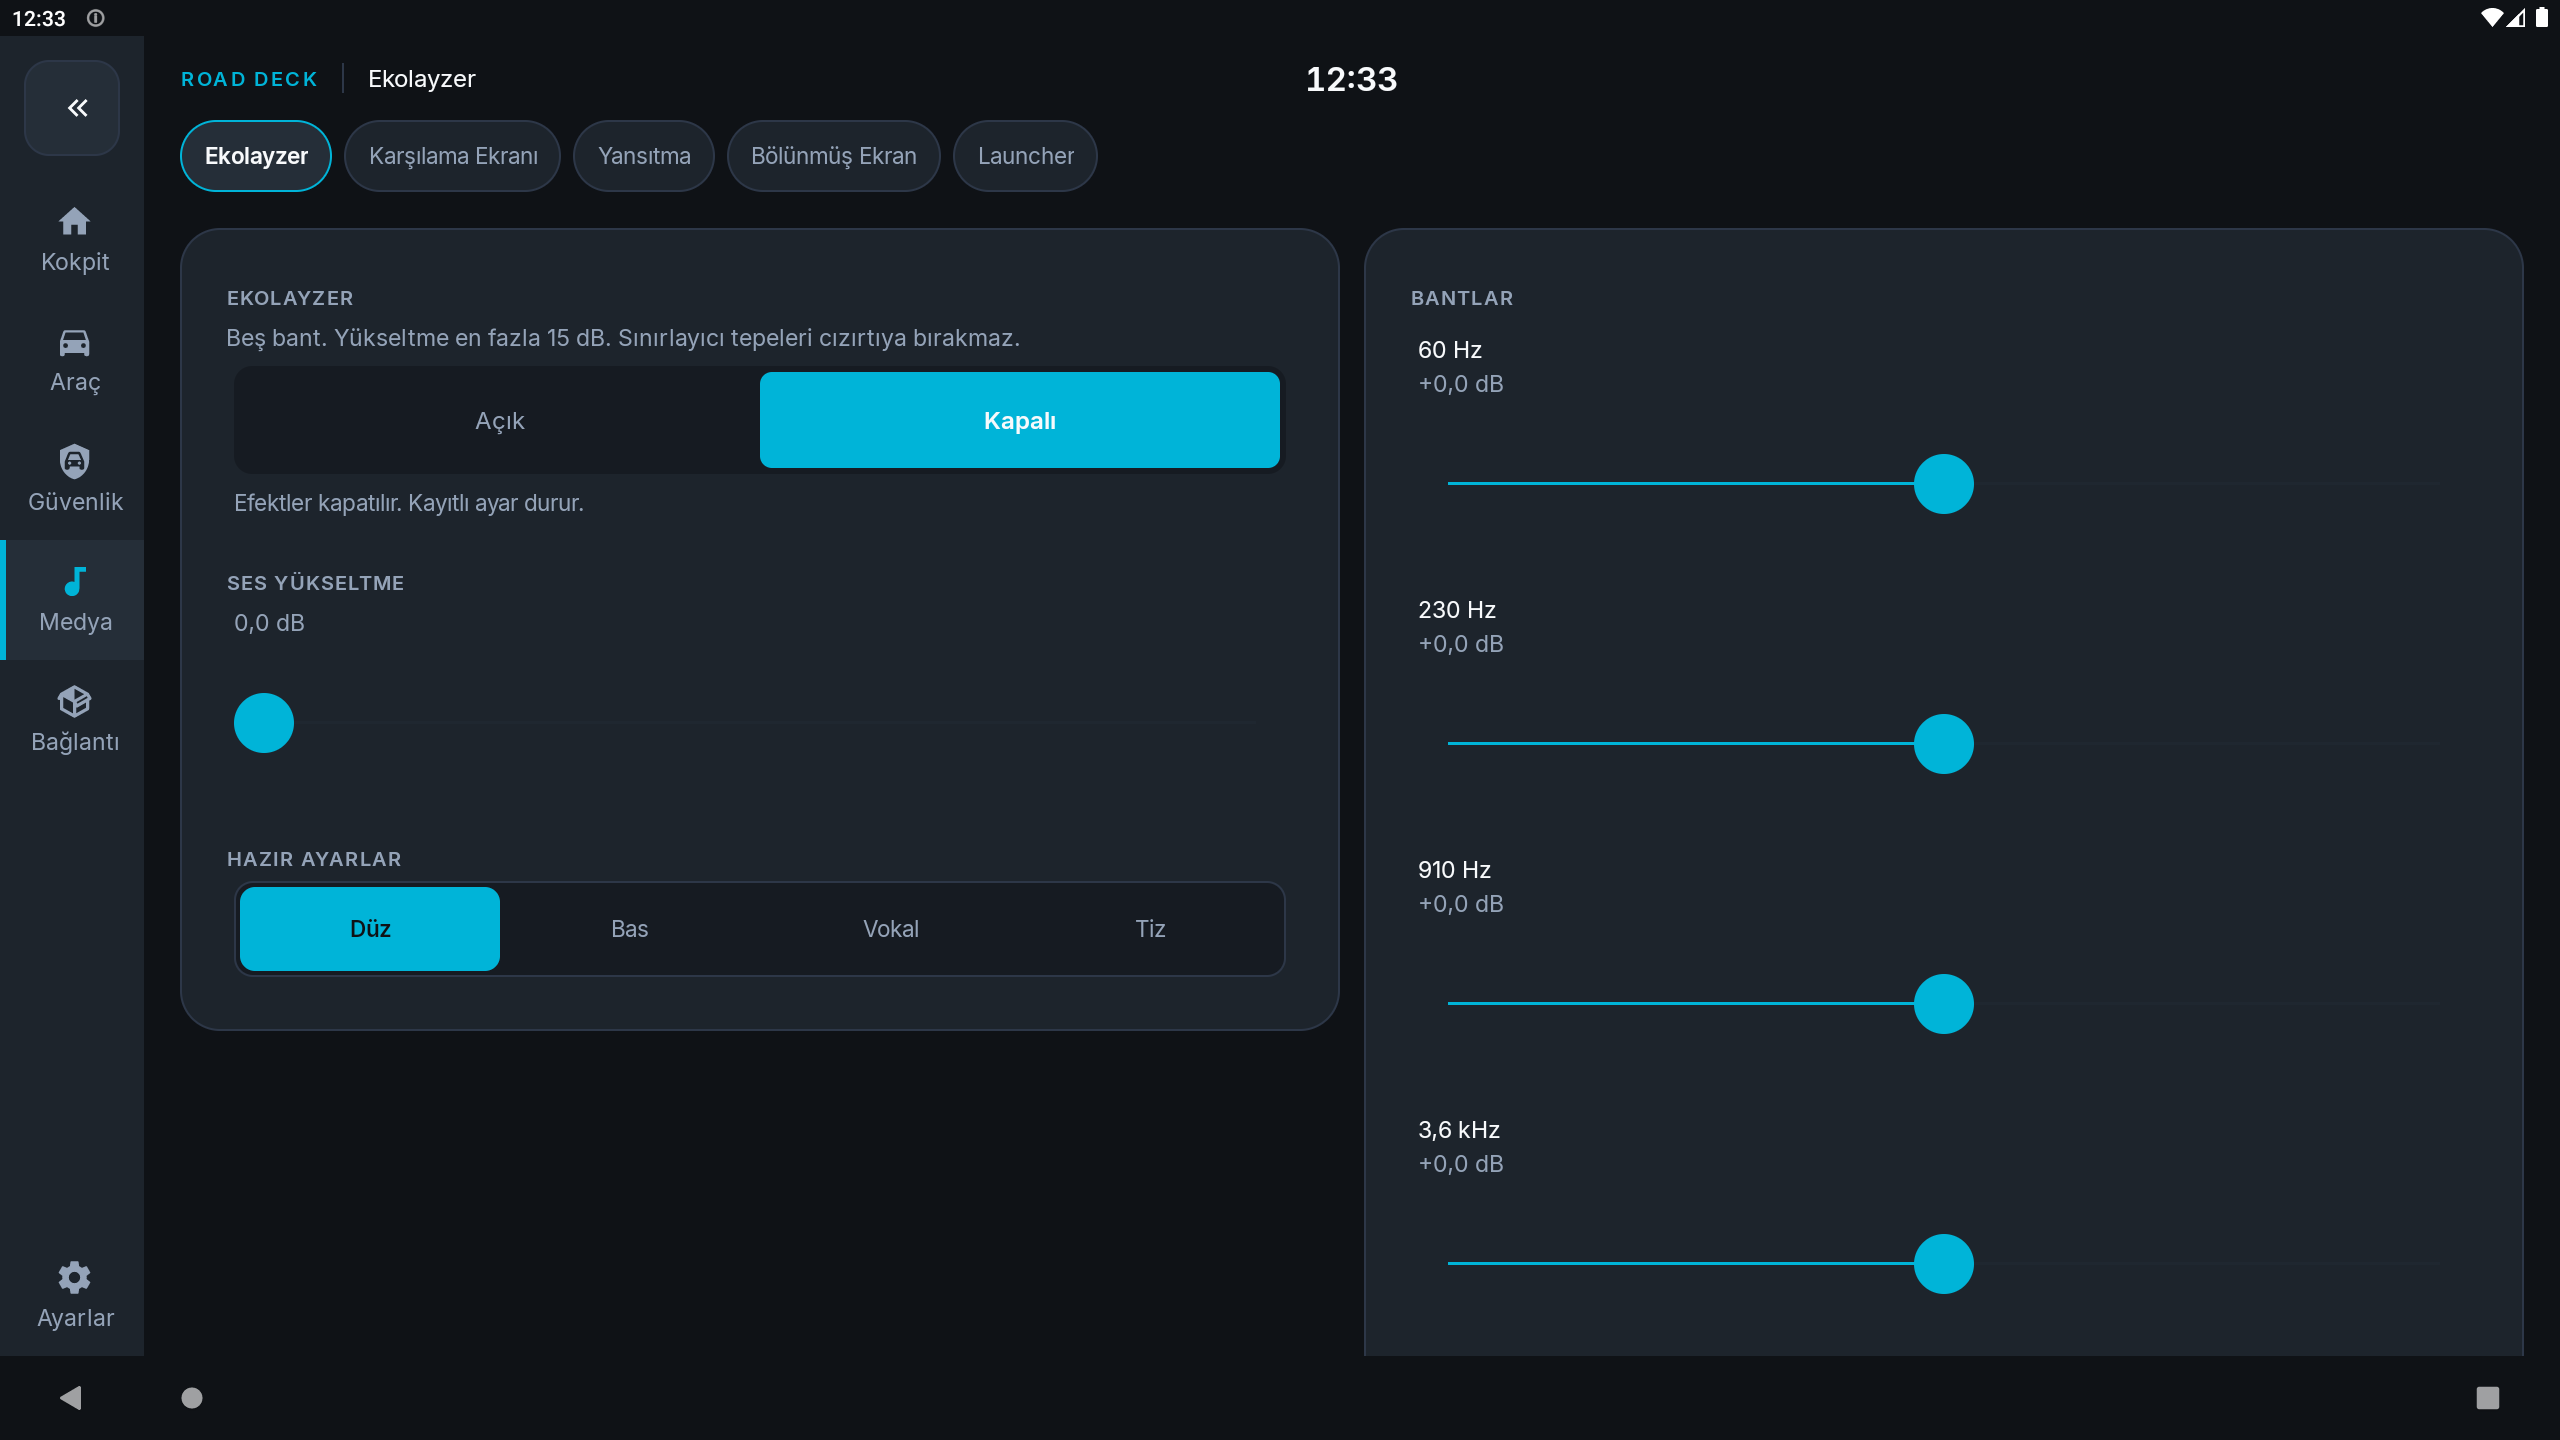
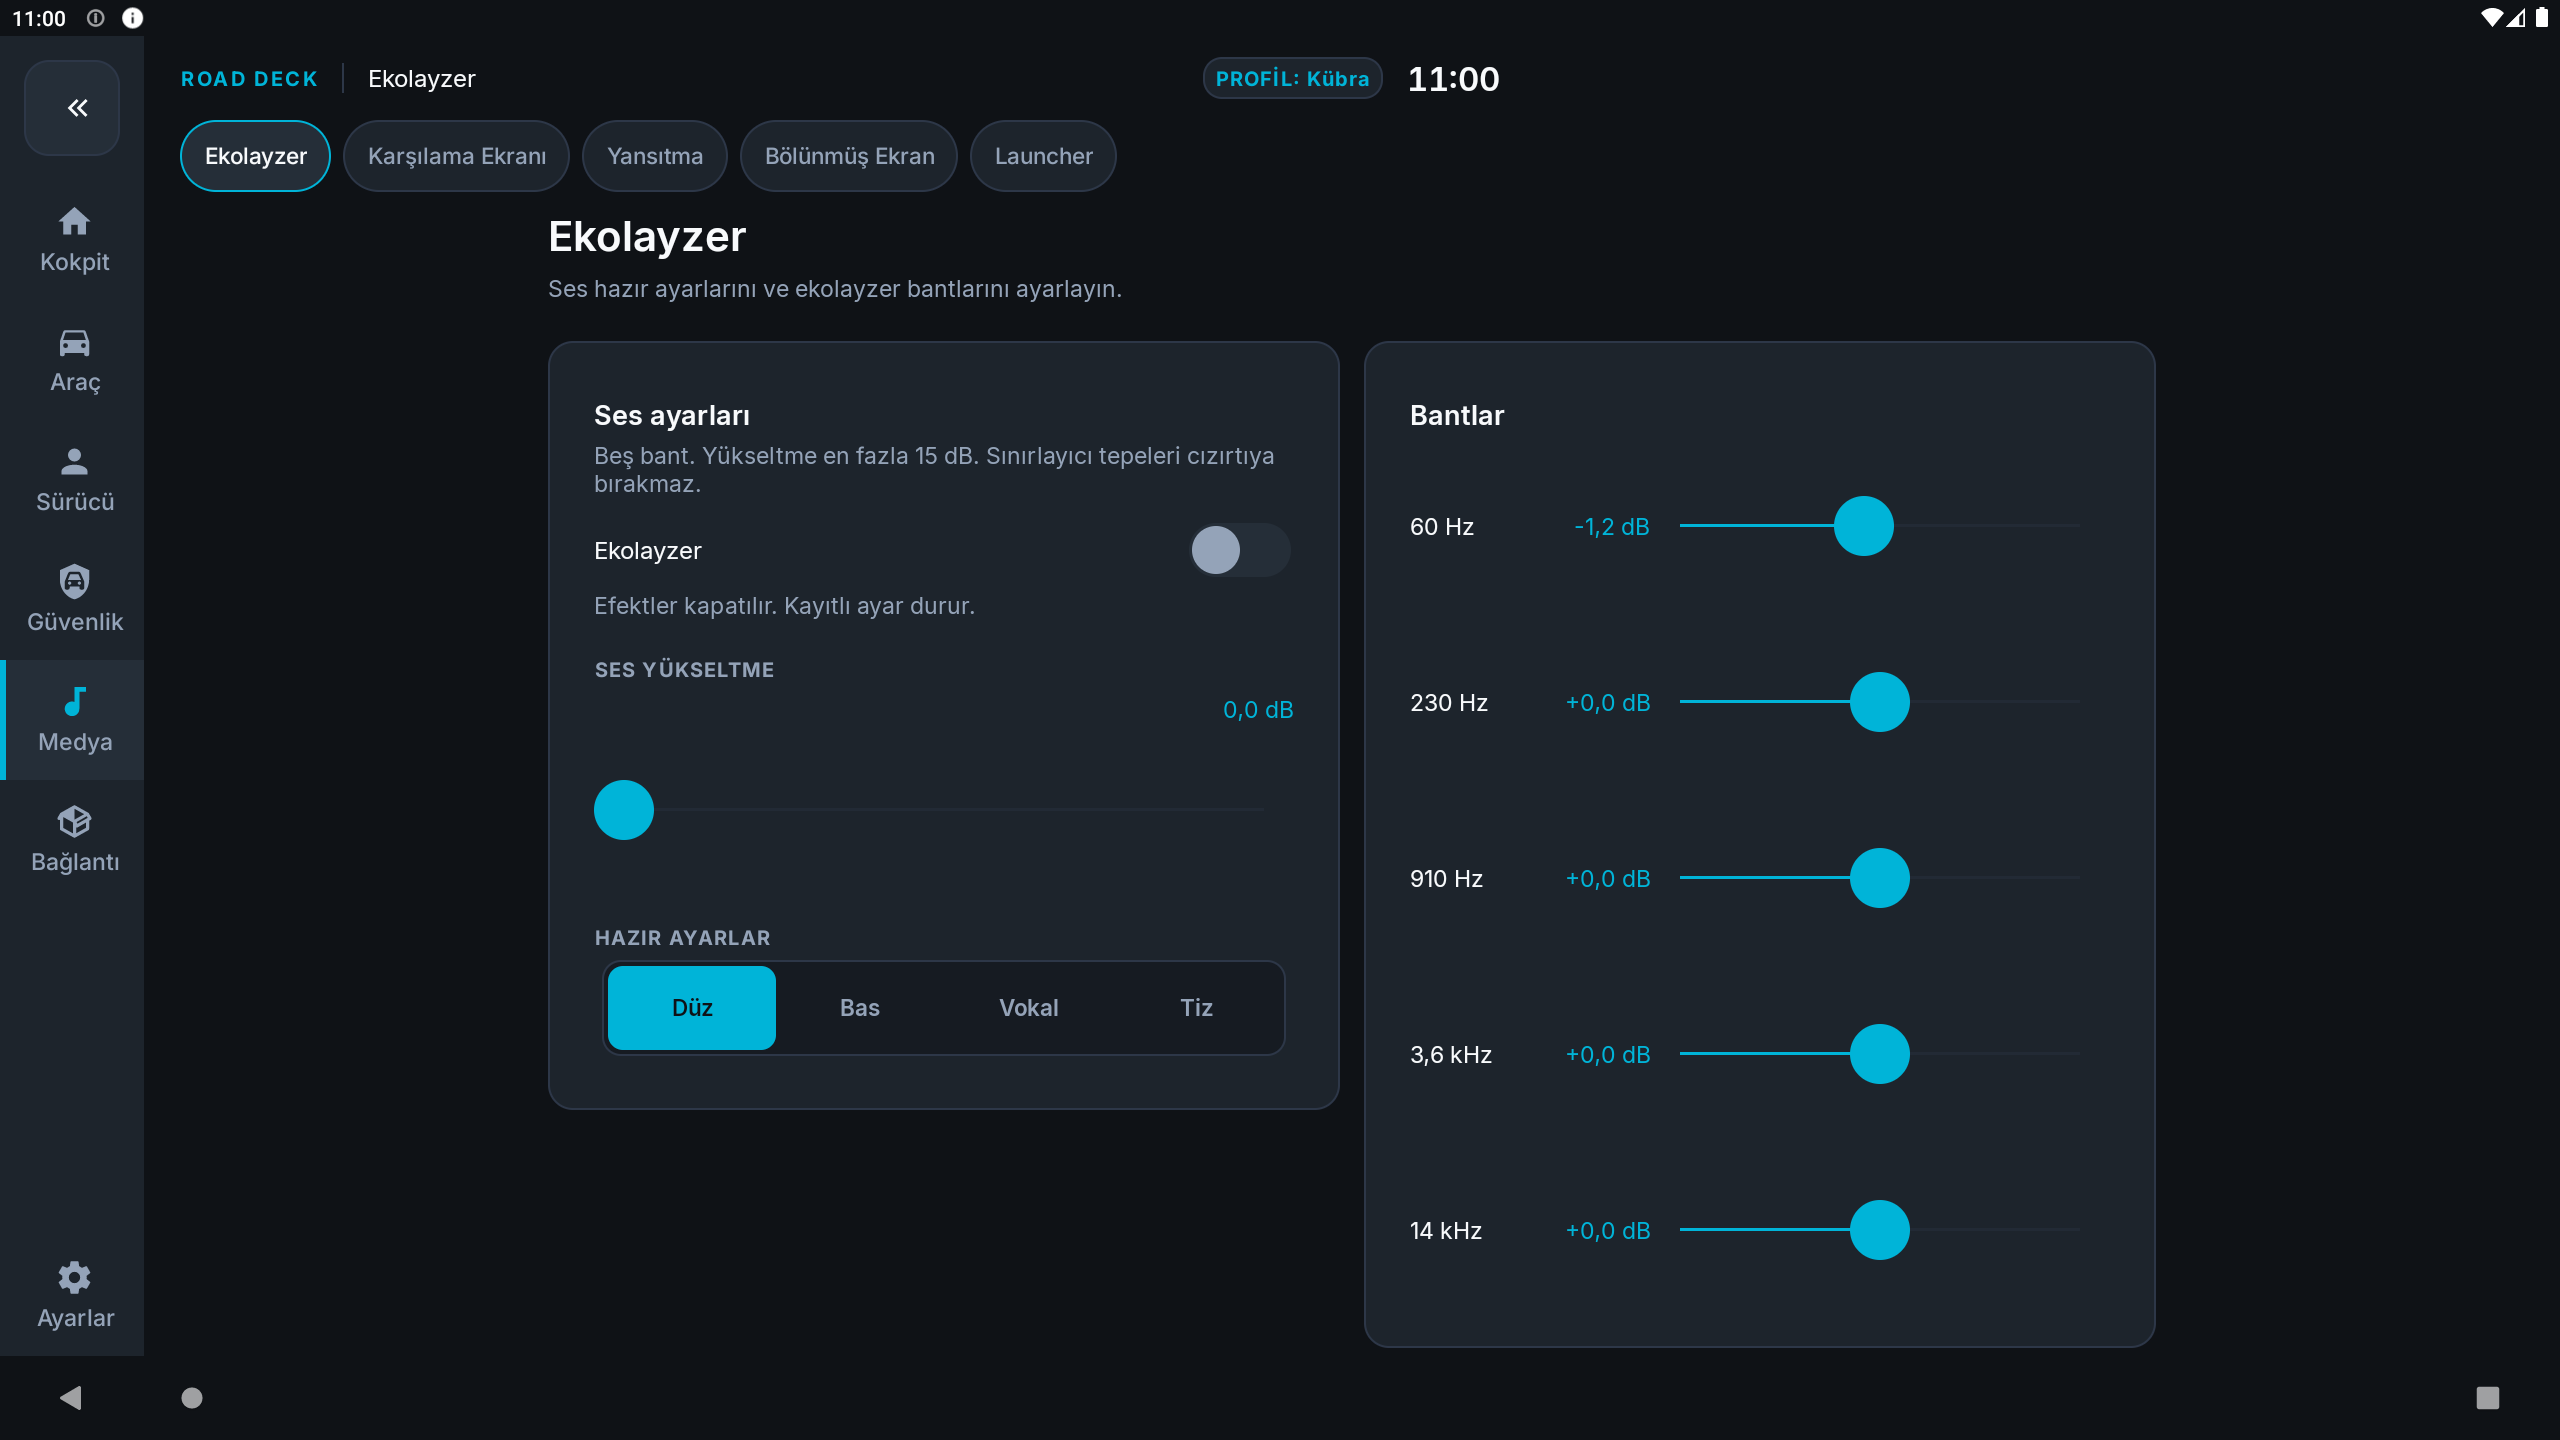
feat: ekolayzer ui denetimi ve duzeltmeleri
- Ayar paneli basligi ve toggle hiyerarsisi duzeltildi
- Bantlar bes kompakt 64dp satira indirildi
- Slider track kontrasti ve erisilebilirlik aciklamalari eklendi
- Ozel preset durumunda segment secimi temizleniyor

diff --git a/app/src/main/java/com/mapcontrol/ui/builder/EqualizerTabBuilder.java b/app/src/main/java/com/mapcontrol/ui/builder/EqualizerTabBuilder.java
@@ -14,7 +14,9 @@ import android.widget.TextView;
 import com.mapcontrol.R;
 import com.mapcontrol.audio.AudioEqualizerController;
 import com.mapcontrol.ui.cockpit.CockpitSegmented;
+import com.mapcontrol.ui.cockpit.CockpitToggle;
 import com.mapcontrol.ui.cockpit.CockpitTokens;
+import com.mapcontrol.ui.cockpit.CockpitSurfaces;
 import com.mapcontrol.ui.theme.UiStyles;
 
 /**
@@ -67,6 +69,10 @@ public class EqualizerTabBuilder {
         centerHz = state.centerHz;
         bandLevels = state.bands;
         preset = state.preset;
+        if (!AudioEqualizerController.PRESET_CUSTOM.equals(preset)
+                && !bandsMatchPreset(preset)) {
+            preset = AudioEqualizerController.PRESET_CUSTOM;
+        }
 
         scrollView = new ScrollView(context);
         scrollView.setBackgroundColor(Color.TRANSPARENT);
@@ -110,7 +116,7 @@ public class EqualizerTabBuilder {
             columns.addView(right, rightLp);
 
             addSettingsPanel(left);
-            addSectionTitle(right, R.string.equalizer_bands_title);
+            addCardTitle(right, R.string.equalizer_bands_title);
             addBandRows(right);
 
             outer.addView(columns, new LinearLayout.LayoutParams(
@@ -119,7 +125,7 @@ public class EqualizerTabBuilder {
         } else {
             LinearLayout card = createCard();
             addSettingsPanel(card);
-            addSectionTitle(card, R.string.equalizer_bands_title);
+            addCardTitle(card, R.string.equalizer_bands_title);
             addBandRows(card);
             outer.addView(card, new LinearLayout.LayoutParams(
                     LinearLayout.LayoutParams.MATCH_PARENT,
@@ -138,21 +144,48 @@ public class EqualizerTabBuilder {
     }
 
     private void addSettingsPanel(LinearLayout card) {
-        addSectionTitle(card, R.string.equalizer_title);
+        addCardTitle(card, R.string.equalizer_settings_title);
         addSectionDesc(card, R.string.equalizer_desc);
 
-        UiStyles.addBinarySegmentedControl(context, card,
-                null,
-                context.getString(R.string.common_on),
-                context.getString(R.string.common_off),
-                context.getString(R.string.equalizer_help_on),
-                context.getString(R.string.equalizer_help_off),
-                enabled,
-                this::onEnabledChanged);
+        LinearLayout enableRow = new LinearLayout(context);
+        enableRow.setOrientation(LinearLayout.HORIZONTAL);
+        enableRow.setGravity(Gravity.CENTER_VERTICAL);
+        enableRow.setPadding(16, 8, 16, 8);
+        TextView enableLabel = new TextView(context);
+        enableLabel.setText(R.string.equalizer_title);
+        CockpitTokens.bodyMd(enableLabel);
+        enableLabel.setTextColor(UiStyles.color(context, R.color.textPrimary));
+        enableRow.addView(enableLabel, new LinearLayout.LayoutParams(
+                0, LinearLayout.LayoutParams.WRAP_CONTENT, 1f));
+        CockpitToggle toggle = new CockpitToggle(context);
+        toggle.setChecked(enabled, false);
+        toggle.setOnCheckedChangeListener((button, checked) -> onEnabledChanged(checked));
+        enableRow.addView(toggle);
+        card.addView(enableRow, matchWrap());
+
+        TextView help = new TextView(context);
+        CockpitTokens.bodySm(help);
+        help.setText(context.getString(enabled ? R.string.equalizer_help_on : R.string.equalizer_help_off));
+        help.setTextColor(UiStyles.color(context, R.color.textSecondary));
+        help.setPadding(16, 0, 16, 8);
+        card.addView(help, matchWrap());
 
         addSectionTitle(card, R.string.equalizer_gain_title);
-        gainValue = addValueLabel(card, formatDb(gainMb, false));
-        gainBar = addSeekBar(card, AudioEqualizerController.MAX_GAIN_MB, gainMb,
+        LinearLayout gainRow = new LinearLayout(context);
+        gainRow.setOrientation(LinearLayout.HORIZONTAL);
+        gainRow.setPadding(16, 0, 16, 0);
+        gainRow.setGravity(Gravity.END);
+        gainValue = new TextView(context);
+        CockpitTokens.bodySm(gainValue);
+        gainValue.setText(formatDb(gainMb, false));
+        gainValue.setTextColor(UiStyles.color(context, R.color.ck_accent));
+        gainRow.addView(gainValue);
+        card.addView(gainRow, matchWrap());
+
+        gainBar = new SeekBar(context);
+        gainBar.setContentDescription(context.getString(R.string.equalizer_gain_title)
+                + ", " + formatDb(gainMb, false));
+        styleSeekBar(gainBar, AudioEqualizerController.MAX_GAIN_MB, gainMb,
                 new SeekBar.OnSeekBarChangeListener() {
                     @Override
                     public void onProgressChanged(SeekBar seekBar, int progress, boolean fromUser) {
@@ -173,6 +206,11 @@ public class EqualizerTabBuilder {
                         commit(preset);
                     }
                 });
+        LinearLayout.LayoutParams gainBarLp = new LinearLayout.LayoutParams(
+                LinearLayout.LayoutParams.MATCH_PARENT,
+                UiStyles.dimenPx(context, R.dimen.equalizer_slider_height));
+        gainBarLp.setMargins(16, 0, 16, 4);
+        card.addView(gainBar, gainBarLp);
 
         addSectionTitle(card, R.string.equalizer_presets_title);
         addPresetRow(card);
@@ -233,6 +271,10 @@ public class EqualizerTabBuilder {
         if (presetSegment == null) {
             return;
         }
+        if (AudioEqualizerController.PRESET_CUSTOM.equals(preset)) {
+            presetSegment.clearSelection();
+            return;
+        }
         for (int i = 0; i < PRESET_IDS.length; i++) {
             if (PRESET_IDS[i].equals(preset)) {
                 presetSegment.syncSelection(i);
@@ -241,23 +283,54 @@ public class EqualizerTabBuilder {
         }
     }
 
+    private boolean bandsMatchPreset(String presetId) {
+        int[] expected = AudioEqualizerController.bandsForPreset(
+                presetId, centerHz, minLevelMb, maxLevelMb);
+        if (expected.length != bandLevels.length) {
+            return false;
+        }
+        for (int i = 0; i < expected.length; i++) {
+            if (expected[i] != bandLevels[i]) {
+                return false;
+            }
+        }
+        return true;
+    }
+
     private void addBandRows(LinearLayout parent) {
         bandValues = new TextView[bandLevels.length];
         bandBars = new SeekBar[bandLevels.length];
         int span = Math.max(1, maxLevelMb - minLevelMb);
         for (int i = 0; i < bandLevels.length; i++) {
             final int index = i;
+            LinearLayout row = new LinearLayout(context);
+            row.setOrientation(LinearLayout.HORIZONTAL);
+            row.setGravity(Gravity.CENTER_VERTICAL);
+            row.setMinimumHeight(CockpitTokens.dim(context, R.dimen.ck_touch_min));
+            row.setPadding(16, 4, 16, 4);
+
             TextView hz = new TextView(context);
             hz.setText(formatHz(i < centerHz.length ? centerHz[i] : 0));
             CockpitTokens.bodySm(hz);
             hz.setTextColor(UiStyles.color(context, R.color.textPrimary));
-            int h = UiStyles.dimenPx(context, R.dimen.spacing_medium);
-            hz.setPadding(h, UiStyles.dimenPx(context, R.dimen.spacing_small), h, 0);
-            parent.addView(hz, matchWrap());
+            hz.setMinWidth(CockpitTokens.dim(context, R.dimen.ck_space_xl) * 2);
+            row.addView(hz, new LinearLayout.LayoutParams(
+                    CockpitTokens.dim(context, R.dimen.ck_space_xl) * 3,
+                    LinearLayout.LayoutParams.WRAP_CONTENT));
 
-            bandValues[i] = addValueLabel(parent, formatDb(bandLevels[i], true));
+            TextView value = new TextView(context);
+            CockpitTokens.bodySm(value);
+            value.setText(formatDb(bandLevels[i], true));
+            value.setTextColor(UiStyles.color(context, R.color.ck_accent));
+            value.setGravity(Gravity.END);
+            row.addView(value, new LinearLayout.LayoutParams(
+                    CockpitTokens.dim(context, R.dimen.ck_space_xl) * 2,
+                    LinearLayout.LayoutParams.WRAP_CONTENT));
+            bandValues[i] = value;
+
             int progress = bandLevels[i] - minLevelMb;
-            bandBars[i] = addSeekBar(parent, span, progress, new SeekBar.OnSeekBarChangeListener() {
+            SeekBar bar = new SeekBar(context);
+            styleSeekBar(bar, span, progress, new SeekBar.OnSeekBarChangeListener() {
                 @Override
                 public void onProgressChanged(SeekBar seekBar, int value, boolean fromUser) {
                     if (!fromUser || updatingSliders) {
@@ -281,6 +354,11 @@ public class EqualizerTabBuilder {
                     commit(preset);
                 }
             });
+            row.addView(bar, new LinearLayout.LayoutParams(
+                    0, UiStyles.dimenPx(context, R.dimen.equalizer_slider_height), 1f));
+            bar.setContentDescription(hz.getText() + ", " + value.getText());
+            bandBars[i] = bar;
+            parent.addView(row, matchWrap());
         }
     }
 
@@ -303,9 +381,8 @@ public class EqualizerTabBuilder {
         updatingSliders = false;
     }
 
-    private SeekBar addSeekBar(LinearLayout parent, int max, int progress,
+    private void styleSeekBar(SeekBar bar, int max, int progress,
             SeekBar.OnSeekBarChangeListener listener) {
-        SeekBar bar = new SeekBar(context);
         bar.setMax(Math.max(1, max));
         bar.setProgress(Math.max(0, Math.min(progress, bar.getMax())));
         int accent = CockpitTokens.color(context, R.color.ck_accent);
@@ -322,18 +399,11 @@ public class EqualizerTabBuilder {
         bar.setMaxHeight(trackPx);
         bar.setProgressTintList(ColorStateList.valueOf(accent));
         bar.setProgressBackgroundTintList(ColorStateList.valueOf(
-                UiStyles.color(context, R.color.buttonInactive)));
+                CockpitTokens.color(context, R.color.ck_stroke)));
         bar.setThumbTintList(ColorStateList.valueOf(accent));
         int side = thumbPx / 2;
         bar.setPadding(side, 0, side, 0);
         bar.setOnSeekBarChangeListener(listener);
-        int h = UiStyles.dimenPx(context, R.dimen.spacing_medium);
-        LinearLayout.LayoutParams lp = new LinearLayout.LayoutParams(
-                LinearLayout.LayoutParams.MATCH_PARENT,
-                UiStyles.dimenPx(context, R.dimen.equalizer_slider_height));
-        lp.setMargins(h, 0, h, UiStyles.dimenPx(context, R.dimen.spacing_small));
-        parent.addView(bar, lp);
-        return bar;
     }
 
     private TextView addValueLabel(LinearLayout parent, String text) {
@@ -345,6 +415,14 @@ public class EqualizerTabBuilder {
         value.setPadding(h, 0, h, 0);
         parent.addView(value, matchWrap());
         return value;
+    }
+
+    private void addCardTitle(LinearLayout parent, int textRes) {
+        TextView title = new TextView(context);
+        title.setText(textRes);
+        CockpitTokens.title(title);
+        title.setPadding(16, 24, 16, 4);
+        parent.addView(title, matchWrap());
     }
 
     private void addSectionTitle(LinearLayout parent, int textRes) {

diff --git a/app/src/main/java/com/mapcontrol/ui/cockpit/CockpitSegmented.java b/app/src/main/java/com/mapcontrol/ui/cockpit/CockpitSegmented.java
@@ -63,6 +63,12 @@ public class CockpitSegmented extends LinearLayout {
         }
     }
 
+    /** Clears selection for a custom/unspecified state. */
+    public void clearSelection() {
+        selectedIndex = -1;
+        refresh();
+    }
+
     /** Visual sync without callback. */
     public void syncSelection(int index) {
         if (index < 0 || index >= getChildCount()) {
